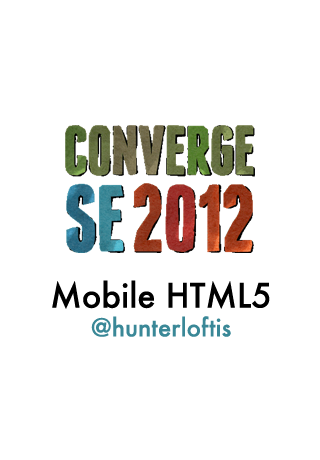
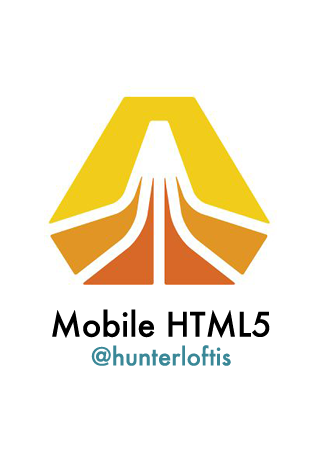
Updated branding to SDW

Changed region(s): [[0.1562, 0.1826, 0.8438, 0.8217]]

diff --git a/index.html b/index.html
@@ -2,7 +2,7 @@
 <html manifest="/cache.manifest">
 <head>
   <meta http-equiv="Content-Type" content="text/html; charset=utf-8" />
-  <title>Converge</title>
+  <title>Skookum</title>
   <!-- Mobile Settings -->
   <meta name="viewport" content="width=device-width, initial-scale=1.0, maximum-scale=1.0, user-scalable=no" />
   <meta name="apple-mobile-web-app-capable" content="yes" />
@@ -43,7 +43,7 @@
     <a id='goodbutton' class='button white'>Custom 'singleTap' button</a>
   </p>
 
-  <h1>Ignore standards and accessibility</h1>
+  <h1>Ignore standards &amp; accessibility</h1>
   <p>
     <input name='badRad' id='rad1' type='radio' />
     <label for='rad1'>first</label>
